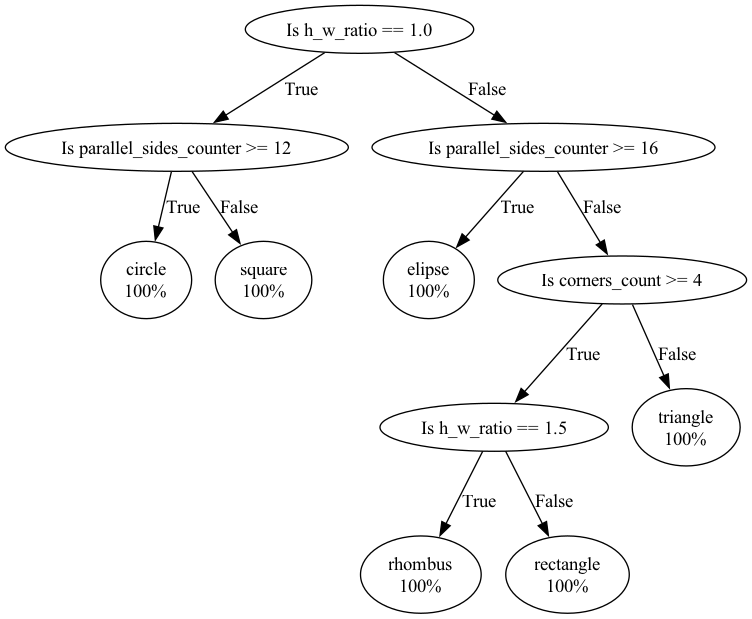
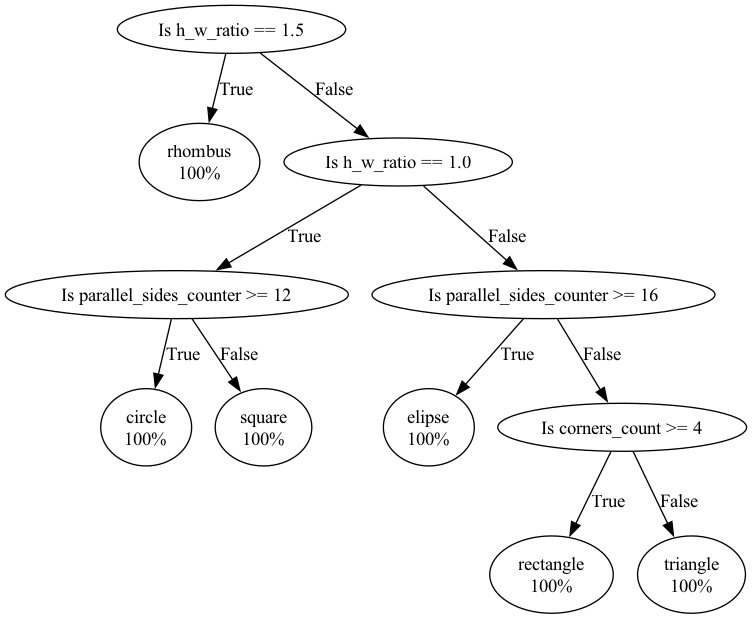
feat: add support for c4.5 algorithm

diff --git a/decision_tree.py b/decision_tree.py
@@ -75,8 +75,20 @@ def info_gain(left, right, current_uncertainty):
     p = float(len(left)) / (len(left) + len(right))
     return current_uncertainty - p * entropy(left) - (1 - p) * entropy(right)
 
-def find_best_split(rows):
-    """Find the best question to ask by iterating over every feature / value and calculate the information gain."""
+def info_gain_ratio(left, right, current_uncertainty):
+    """Returns Information Gain Ratio."""
+    p = float(len(left)) / (len(left) + len(right))
+    return (current_uncertainty - p * entropy(left) - (1 - p) * entropy(right)) / intrinsic_value(left, right)
+
+def intrinsic_value(left, right):
+    """Returns the intrinsic value."""
+    total = len(left) + len(right)
+    p_left = len(left) / total
+    p_right = len(right) / total
+    return -(p_left * math.log(p_left, 2) + p_right * math.log(p_right, 2))
+
+def find_best_split(rows, igr):
+    """Find the best question to ask by iterating over every feature / value and calculate the information gain or information gain ratio."""
     best_gain = 0
     best_question = None
     current_uncertainty = entropy(rows)
@@ -87,19 +99,22 @@ def find_best_split(rows):
             true_rows, false_rows = partition(rows, question)
             if len(true_rows) == 0 or len(false_rows) == 0:
                 continue
-            gain = info_gain(true_rows, false_rows, current_uncertainty)
+            if igr:
+                gain = info_gain_ratio(true_rows, false_rows, current_uncertainty)
+            else:
+                gain = info_gain(true_rows, false_rows, current_uncertainty)
             if gain >= best_gain:
                 best_gain, best_question = gain, question
     return best_gain, best_question
 
-def build_tree(rows):
+def build_tree(rows, igr):
     """Builds the tree."""
-    gain, question = find_best_split(rows)
+    gain, question = find_best_split(rows, igr)
     if gain == 0:
         return Leaf(rows)
     true_rows, false_rows = partition(rows, question)
-    true_branch = build_tree(true_rows)
-    false_branch = build_tree(false_rows)
+    true_branch = build_tree(true_rows, igr)
+    false_branch = build_tree(false_rows, igr)
 
     return DecisionNode(question, true_branch, false_branch)
 

diff --git a/main.py b/main.py
@@ -50,7 +50,15 @@ if __name__ == '__main__':
         print_input_data_element(training_data_element)
         print()
 
-    my_tree = build_tree(training_data)
+
+    print('Do you want to use Information Gain Ratio instead of Information Gain? (y/n)')
+    answer = input()
+    if answer == 'y':
+        print('Using Information Gain Ratio.')
+        my_tree = build_tree(training_data, True)
+    else:
+        print('Using Information Gain.')
+        my_tree = build_tree(training_data, False)
 
     print_tree(my_tree)
     tree_drawing = draw_tree(my_tree)

diff --git a/readme.md b/readme.md
@@ -1,6 +1,6 @@
-# Decision Tree Classifier - ID3
+# Decision Tree Classifier - ID3 + C4.5
 ## Introduction
-This is a simple implementation of the ID3 algorithm for decision tree learning. The current example uses geometric figures for training and testing. The algorithm is implemented in Python 3.9.6.
+This is a simple implementation of the ID3 + C4.5 algorithm for decision tree learning. The current example uses geometric figures for training and testing. The algorithm is implemented in Python 3.9.6.
 
 Project was created as a part of the course "Methods of Artificial Intelligence " at the Faculty of Electrical Engineering, Warsaw University of Technology, Poland.
 
